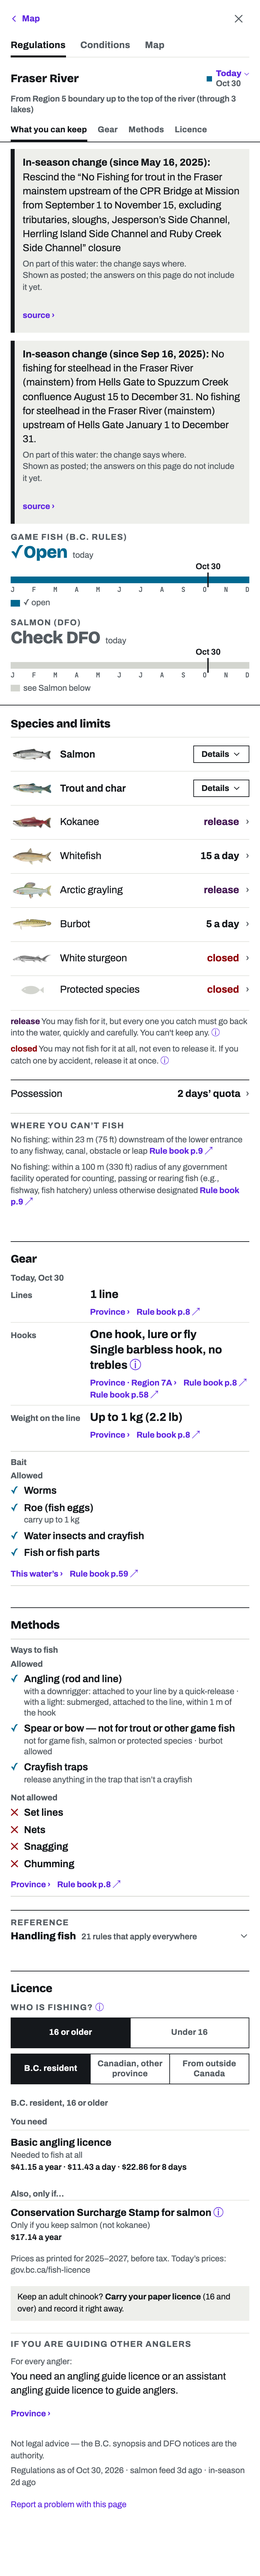
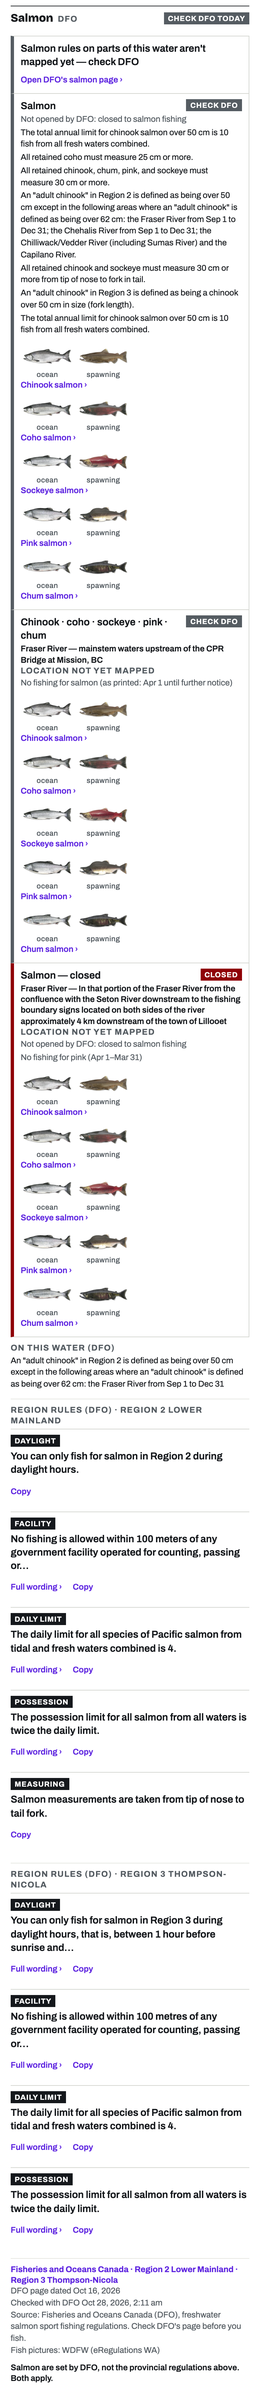
T318: regs/salmon tests on the table layout (+ place fold, timed line, reachability), after shots, ticket + README done

Changed region(s): [[0.0308, 0.0, 0.9846, 0.9973], [0.8923, 0.6233, 0.9231, 0.6545]]

diff --git a/app/packages/ui-native/src/regs/SalmonCard.test.tsx b/app/packages/ui-native/src/regs/SalmonCard.test.tsx
@@ -6,7 +6,7 @@
  */
 import { afterEach, describe, expect, it, vi } from "vitest";
 import { act, cleanup, fireEvent, render, screen, within } from "@testing-library/react";
-import { salmonCard, type RegsPage, type SalmonFacts } from "@app/core";
+import { salmonCard, salmonRowTexts, type RegsPage, type SalmonFacts } from "@app/core";
 import { LIGHT } from "../theme";
 import { SPINNER_TIMING } from "../LoadingState";
 import { RegsScreen } from "./RegsScreen";
@@ -50,13 +50,13 @@ describe("the Salmon card", () => {
     // ABOVE the Keep tab (owner 2026-10-28)
     expect(screen.getByTestId("keep-tab").compareDocumentPosition(el) & Node.DOCUMENT_POSITION_PRECEDING).toBeTruthy();
     expect(el.getAttribute("aria-label")).toBe("Salmon, DFO: Open today");
-    const rows = screen.getAllByTestId("salmon-card-block-row").map((r) => r.textContent!);
-    expect(rows.map((r, i) => [r.startsWith(["Chinook · sockeye · pink", "Coho", "Chum"][i]!), r.includes(["Closed", "Open", "Closed"][i]!)]))
-      .toEqual([[true, true], [true, true], [true, true]]);
-    expect(rows[1]).toContain("4 per day, only 2 over 50 cm (Jul 15–Aug 23)");
-    // each species of a row is pictured, both looks, and opens its fish sheet
-    expect(within(screen.getAllByTestId("salmon-card-block-row")[0]!).getAllByTestId("salmon-look").length).toBe(6);
-    expect(screen.getByTestId("pic:CO").textContent).toBe("oceanspawningCoho salmon ›");
+    // (T318) ONE row per species, today's status; DFO's words once under the table; ONE picture each (the ocean look)
+    const rows = screen.getAllByTestId("salmon-species-row").map((r) => r.textContent!);
+    expect(rows.map((r, i) => [r.startsWith(["Chinook", "Coho", "Sockeye", "Pink", "Chum"][i]!), r.endsWith(["Closed", "Open", "Closed", "Closed", "Closed"][i]!)]))
+      .toEqual([[true, true], [true, true], [true, true], [true, true], [true, true]]);
+    expect(screen.getAllByTestId("salmon-says-line").map((e) => e.textContent)).toContain("4 per day, only 2 over 50 cm (Jul 15–Aug 23)");
+    expect(screen.getAllByTestId("salmon-look").length).toBe(5);
+    expect(screen.getByTestId("pic:CO").textContent).toBe("Coho ›");
     expect(screen.getByTestId("salmon-card-block-gear").textContent).toBe("No natural bait allowed (Jan 1–Dec 31)");
     expect([screen.getByTestId("salmon-source").textContent, screen.getByTestId("salmon-asof").textContent])
       .toEqual(["Fisheries and Oceans Canada · Region 6 Skeena", "DFO page dated Aug 28, 2026"]);
@@ -71,19 +71,17 @@ describe("the Salmon card", () => {
     expect(screen.getByTestId("salmon-checked").textContent).toBe("Checked with DFO Oct 27, 2026, 11:04 am");
   });
 
-  it("every species closed: ONE 'Salmon — closed' row", () => {
+  it("every species closed: five closed species rows and DFO's closed words said ONCE (not per picture)", () => {
     render(<SalmonCard card={salmonCard(FACTS, { sids: [101], item: null }, SEP15)} palette={LIGHT} />);
-    const rows = screen.getAllByTestId("salmon-card-block-row");
-    expect(rows.length).toBe(1);
-    expect(rows[0]!.textContent!.startsWith("Salmon — closed")).toBe(true);
-    expect(within(rows[0]!).getAllByTestId("salmon-look").length).toBe(10);       // five species, two looks each
+    expect(screen.getAllByTestId("salmon-species-status").map((e) => e.textContent)).toEqual(Array(5).fill("Closed"));
+    expect(screen.getAllByTestId("salmon-says-line").length).toBe(2);               // the chinook line and the not-opened line, once
     expect(screen.getByTestId("salmon-card").getAttribute("aria-label")).toBe("Salmon, DFO: Closed today");
   });
 
   it("A WATER DFO DOES NOT LIST reads 'Salmon — closed', and says why (owner 2026-10-27)", () => {
     render(<SalmonCard card={salmonCard(FACTS, { sids: [7], item: "gnis:1" }, JUL20)} palette={LIGHT} />);
-    expect(screen.getAllByTestId("salmon-card-block-row").map((r) => r.textContent))
-      .toEqual([expect.stringMatching(/^Salmon — closedClosedNot opened by DFO: closed to salmon fishing/)]);
+    expect(screen.getAllByTestId("salmon-species-status").map((e) => e.textContent)).toEqual(Array(5).fill("Closed"));
+    expect(screen.getAllByTestId("salmon-says-line").map((e) => e.textContent)).toEqual(["Not opened by DFO: closed to salmon fishing"]);
     expect(screen.getByTestId("salmon-not-listed").textContent)
       .toBe("DFO does not list this water for salmon. It is closed to salmon fishing.");
   });
@@ -92,6 +90,11 @@ describe("the Salmon card", () => {
     render(<SalmonCard card={salmonCard(FACTS, { sids: [101], item: "gnis:4674" }, JUL20)} palette={LIGHT} />);
     expect(screen.getByTestId("salmon-unmapped-tag").textContent).toBe("Location not yet mapped");
     expect(screen.getByTestId("salmon-unmapped").textContent).toContain("Kispiox River — at the resort");
+    // folded to one line; opened, its own species and DFO's words are there
+    expect(screen.queryByTestId("salmon-place-body")).toBeNull();
+    fireEvent.click(screen.getByTestId("salmon-place-fold"));
+    expect(screen.getByTestId("salmon-place-summary").textContent).toBe("Closed to salmon fishing");   // every species closed: said once
+    expect(screen.getByTestId("salmon-place-body").textContent).toContain("No fishing for chinook (Apr 1–Mar 31)");
     expect(FACTS.chainOf(999)).toBe(0);     // its chain is placed on no section: the map draws the water unlisted
   });
 });
@@ -128,6 +131,27 @@ describe("the Standard / Salmon switch (beside the day strip, top left)", () => 
   });
 });
 
+describe("(T318) every DFO rule on a water is still reachable in the table layout", () => {
+  it("each row word, size, species note, place word, region rule and water rule is on the card (places once opened)", () => {
+    const n = (id: string, k: string, t: string, extra: object = {}) => ({ id, k, t, ...extra });
+    const f: SalmonFacts = { ...FACTS, payload: { ...FACTS.payload, regions: { "6": { ...FACTS.payload.regions["6"]!, notes: [
+      n("6:daylight:a", "daylight", "You can only fish for salmon in Region 6 during daylight hours."),
+      n("6:min_size:b", "min_size", "All retained coho must measure 25 cm or more.", { sp: ["CO"], cm: 25 }),
+      n("6:annual:c", "annual", "The annual coho limit is 10.", { sp: ["CO"], n: 10 }),
+    ] } } } };
+    for (const [day, item] of [[JUL20, "gnis:4674"], [SEP15, "gnis:4674"], [JUL20, null]] as const) {
+      const card = salmonCard(f, { sids: [101], item }, day);
+      render(<SalmonCard card={card} palette={LIGHT} />);
+      screen.queryAllByTestId("salmon-place-fold").forEach((b) => fireEvent.click(b));
+      const text = screen.getByTestId("salmon-card").textContent!;
+      for (const t of salmonRowTexts(card)) expect(text, t).toContain(t);
+      for (const g of card.regionRules) for (const r of g.rules) expect(text, r.id).toContain(r.line);
+      for (const t of card.waterRules) expect(text, t).toContain(t);
+      cleanup();
+    }
+  });
+});
+
 describe("a species' picture opens its fish sheet", () => {
   it("sp:CO on a press", () => {
     const opened: string[] = [];
@@ -154,9 +178,8 @@ describe("(owner 2026-10-28) the region header and the provincial gear on the ca
     const block = screen.getByTestId("salmon-region-rules");
     expect(within(block).getByText("Region rules (DFO) · Region 6 Skeena")).toBeTruthy();
     expect(within(block).getByText("You can only fish for salmon in Region 6 during daylight hours.")).toBeTruthy();
-    const coho = screen.getAllByTestId("salmon-card-block-row").find((r) => r.textContent!.startsWith("Coho"))!;
-    expect(within(coho).getByText(/Kispiox watershed: the aggregate daily limit/)).toBeTruthy();
-    expect(within(coho).getByTestId("salmon-card-block-sizes").textContent).toBe("Sizes (DFO): coho 25 cm or more to keep");
+    expect(screen.getByText(/Kispiox watershed: the aggregate daily limit/)).toBeTruthy();
+    expect(screen.getByTestId("salmon-limit").textContent).toBe("Sizes (DFO): coho 25 cm or more to keep");
     expect(screen.getByTestId("salmon-gear-provincial").textContent).toBe("B.C. rules, also for salmon: Bait ban: no bait of any kind.");
   });
 
@@ -179,8 +202,7 @@ describe("(owner 2026-10-28) the region header and the provincial gear on the ca
     const f: SalmonFacts = { ...WITH_HEADER, payload: { ...WITH_HEADER.payload, regions: { "6": { ...WITH_HEADER.payload.regions["6"]!,
       notes: [...WITH_HEADER.payload.regions["6"]!.notes!, n("6:annual:d", "annual", "The annual coho limit is 10.", { sp: ["CO"], n: 10 })] } } } };
     render(<SalmonCard card={salmonCard(f, { sids: [101], item: "gnis:9" }, JUL20)} palette={LIGHT} />);
-    const coho = screen.getAllByTestId("salmon-card-block-row").find((r) => r.textContent!.startsWith("Coho"))!;
-    expect(within(coho).getByTestId("salmon-card-block-species-note").textContent).toBe("The annual coho limit is 10.");
+    expect(screen.getAllByTestId("salmon-says-line").map((e) => e.textContent)).toContain("The annual coho limit is 10.");
     expect(screen.getByTestId("salmon-region-rules").textContent).not.toContain("annual coho");
     expect(screen.getByTestId("salmon-region-rules").textContent).not.toContain("25 cm");
   });

diff --git a/app/packages/ui-native/src/regs/Edges.test.tsx b/app/packages/ui-native/src/regs/Edges.test.tsx
@@ -101,25 +101,24 @@ describe("10. an unnamed section (D11 a)", () => {
 
 describe("11. the timed caveat (x15p2_1010, D10 a)", () => {
   const page = asPage(x15p2), caveat = page.keep.caveats[0]!;
-  it("'⚠ At certain times' as the block's label, in the sub grey; the block marked by a restricted rule on its left", () => {
-    expect(caveat.kind).toBe("timed");
+  it("(T318) the timed closure is ONE line under the game-fish bar: no box, no heading, said in words", () => {
     for (const palette of [LIGHT, DARK]) {
       render(<KeepTab keep={page.keep} dateLabel={page.header.date} palette={palette} actions={{ ...NOOP, onTab() {} }} />);
-      const k = screen.getByTestId("kicker:timed");
-      expect(k.textContent).toBe("⚠ At certain times");
-      expect(getComputedStyle(k).color).toBe(rgb(palette.sub));
-      const block = screen.getByTestId("keep-caveat");
-      expect([getComputedStyle(block).borderLeftColor, getComputedStyle(block).borderLeftWidth]).toEqual([rgb(palette.restricted), "3px"]);
+      expect(screen.queryByTestId("keep-caveat")).toBeNull();
+      expect(screen.queryByTestId("kicker:timed")).toBeNull();
+      expect(screen.getByTestId("keep-timed-line").textContent).toBe("Daylight only: closed from 1 h after sunset to 1 h before sunrise");
+      const strip = screen.getByTestId("keep-strip"), line = screen.getByTestId("keep-timed");
+      expect(strip.compareDocumentPosition(line) & Node.DOCUMENT_POSITION_FOLLOWING).toBeTruthy();
+      // directly under the bar: nothing between the strip and the line
+      expect(strip.nextElementSibling).toBe(line);
       cleanup();
     }
   });
-  it("each item a button opening its rule's sheet; the Rule book link after it, not inside it", () => {
+  it("(T318) the line opens its rule's sheet; the Rule book link sits inline after it", () => {
     const { sheets, books } = mountKeep(page);
-    const items = screen.getAllByTestId("keep-caveat-item");
-    expect(items.map((e) => e.textContent)).toEqual(["No fishing for any game fish60 min after sunset–60 min before sunriseRule book p.23 ↗"]);
-    const btn = within(items[0]!).getByRole("button");
-    expect(btn.textContent).toBe("No fishing for any game fish60 min after sunset–60 min before sunrise");
-    fireEvent.click(btn);
+    const items = screen.getAllByTestId("keep-timed-item");
+    expect(items.map((e) => e.textContent)).toEqual(["Daylight only: closed from 1 h after sunset to 1 h before sunriseRule book p.23 ↗"]);
+    fireEvent.click(screen.getByTestId("keep-timed-line"));
     expect(sheets).toEqual([`rule:${caveat.items[0]!.rule}`]);
     fireEvent.click(within(items[0]!).getByText("Rule book p.23 ↗"));
     expect([sheets.length, books.length]).toEqual([1, 1]);

diff --git a/app/packages/ui-native/src/regs/SalmonCard.partial.test.tsx b/app/packages/ui-native/src/regs/SalmonCard.partial.test.tsx
@@ -3,7 +3,7 @@
  * parts of this water aren't mapped yet — check DFO" and DFO's page, and no row says a confident status.
  */
 import { afterEach, describe, expect, it } from "vitest";
-import { cleanup, render, screen, within } from "@testing-library/react";
+import { cleanup, fireEvent, render, screen, within } from "@testing-library/react";
 import { salmonCard, type SalmonFacts } from "@app/core";
 import { LIGHT } from "../theme";
 import { SalmonCard } from "./SalmonCard";
@@ -41,13 +41,11 @@ describe("the Salmon card on a partly mapped water", () => {
     expect(screen.getByTestId("salmon-partial-link").getAttribute("role")).toBe("link");
     expect(card.partial?.url).toBe("https://example/region6");
     expect(screen.getByTestId("salmon-card").getAttribute("aria-label")).toBe("Salmon, DFO: Check DFO today");
-    const rows = screen.getAllByTestId("salmon-card-block-row").map((r) => r.textContent!);
+    const rows = screen.getAllByTestId("salmon-species-row").map((r) => r.textContent!);
     expect(rows.some((r) => r.includes("Release only"))).toBe(false);
-    // DFO's own words for the undrawn place still show, tagged
-    // (T221) in the same table, tagged with its place: one table, never a second box
-    const undrawn = screen.getAllByTestId("salmon-unmapped-block-row");
-    expect(undrawn.some((r) => r.textContent!.includes("4 per day, only 2 over 50 cm"))).toBe(true);
-    expect(undrawn.every((r) => r.parentElement === screen.getByTestId("salmon-card-block"))).toBe(true);
-    expect(within(undrawn[0]!).getByTestId("salmon-unmapped-tag").textContent).toBe("Location not yet mapped");
+    // DFO's own words for the undrawn place still show, tagged, folded in the same card (T318: one line until opened)
+    expect(within(screen.getByTestId("salmon-place")).getByTestId("salmon-unmapped-tag").textContent).toBe("Location not yet mapped");
+    fireEvent.click(screen.getByTestId("salmon-place-fold"));
+    expect(screen.getByTestId("salmon-place-body").textContent).toContain("4 per day, only 2 over 50 cm");
   });
 });

diff --git a/handoff/PLAN/app-integration/tickets/T318-regs-pane-salmon-table.md b/handoff/PLAN/app-integration/tickets/T318-regs-pane-salmon-table.md
@@ -1,6 +1,6 @@
 # T318 — Regs pane: time-of-day closures in the year bar; salmon as a species/quota table; one image per species
 
-Status: OPEN (owner 2026-10-31, with phone screenshots of the Fraser on 0.3.0: T318-shots/owner-fraser-regs.png,
+Status: DONE (no APK) (owner 2026-10-31, with phone screenshots of the Fraser on 0.3.0: T318-shots/owner-fraser-regs.png,
 owner-fraser-salmon.png).
 
 ## Work
@@ -20,3 +20,10 @@ Words in core tables; existing components; no information dropped (pin with a te
 Phone before/after shots of the Fraser (Region 2) regs pane and salmon card; test pins.
 
 Depends: T309. Size: M. Owner: no.
+
+## Done
+- Timed closure: one line under the game-fish bar ("Daylight only: closed from 1 h after sunset to 1 h before sunrise", rule-book link inline, tap opens the rule); core `timedLineText`, `TimedLines`. The boxed "At certain times" block is gone for the timed kind. Pinned in Edges.test.tsx on the x15p2 fixture (the local Fraser data has no timed rule today, so no shot of it).
+- Stray "source >" box: it is the in-season banner (`InSeasonBanner`); a banner with no text of its own is no longer drawn. Cause on the owner's phone not reproduced (local feed rows have text), so the guard is defensive.
+- Salmon: core `salmonTable(card)`: one row per species (ocean picture only, status, sizes), DFO's words once under it, each unmapped DFO place folded to one line ("Show rules"), gear lines, region rules (T309) unchanged. Tapping a species opens `sp:CODE` (both looks, ID tips). Reachability pinned: core `salmon.test.ts` (salmonRowTexts within salmonTableTexts, five cases) and `SalmonCard.test.tsx` (every row/place/region/water rule text on the card once places are opened).
+- Not done: daily/possession are not structured per species in the data, so the table carries status + sizes; the daily/possession limits stay in the T309 region rule rows.
+- Shots (390 px headless, local data): T318-shots/{before,after}-fraser-salmon-phone.png, {before,after}-kispiox-salmon-phone.png, before/after-fraser-regs-phone.png.

diff --git a/handoff/PLAN/app-integration/tickets/README.md b/handoff/PLAN/app-integration/tickets/README.md
@@ -359,7 +359,7 @@ use that as the sole source of future work."
 | T315 | Offline: keep the last week of gauge readings so charts still show the measured line | IN REVIEW (built; worker deploy (owner) + emulator pending) | b1827b9d0 | owner 2026-10-31 |
 | T316 | Spot + parking pins as map-engine GeoJSON layers (no lag on pan), clustering in the source | OPEN | — | owner 2026-10-31 |
 | T317 | Audit: every map feature drawn by the map engine (no lagging overlays); once-over for per-frame JS / hot-path waste | OPEN | — | owner 2026-10-31 |
-| T318 | Regs pane: time-of-day closure in the year bar; salmon species/quota table; ocean image only (both in ID pane); stray source box | OPEN | — | owner 2026-10-31 |
+| T318 | Regs pane: time-of-day closure in the year bar; salmon species/quota table; ocean image only (both in ID pane); stray source box | DONE | — | owner 2026-10-31 |
 | T319 | Store screenshots that sell the app, framed + captioned, regenerated by one command (for the real launch) | POSTPONED | — | owner 2026-10-31 |
 | T305 | tile_version is not deterministic (tippecanoe temp path in pmtiles metadata) | OPEN | — | found by the 10-31 build pass; release id moves on every tile rebuild |
 | T306 | slow suite: 8 failures on live data (status_index 198/6000 disagree, national parks, cayoosh split, water kind, t57 sweep, browser) | OPEN | — | found by the 10-31 build pass; not caused by it |
